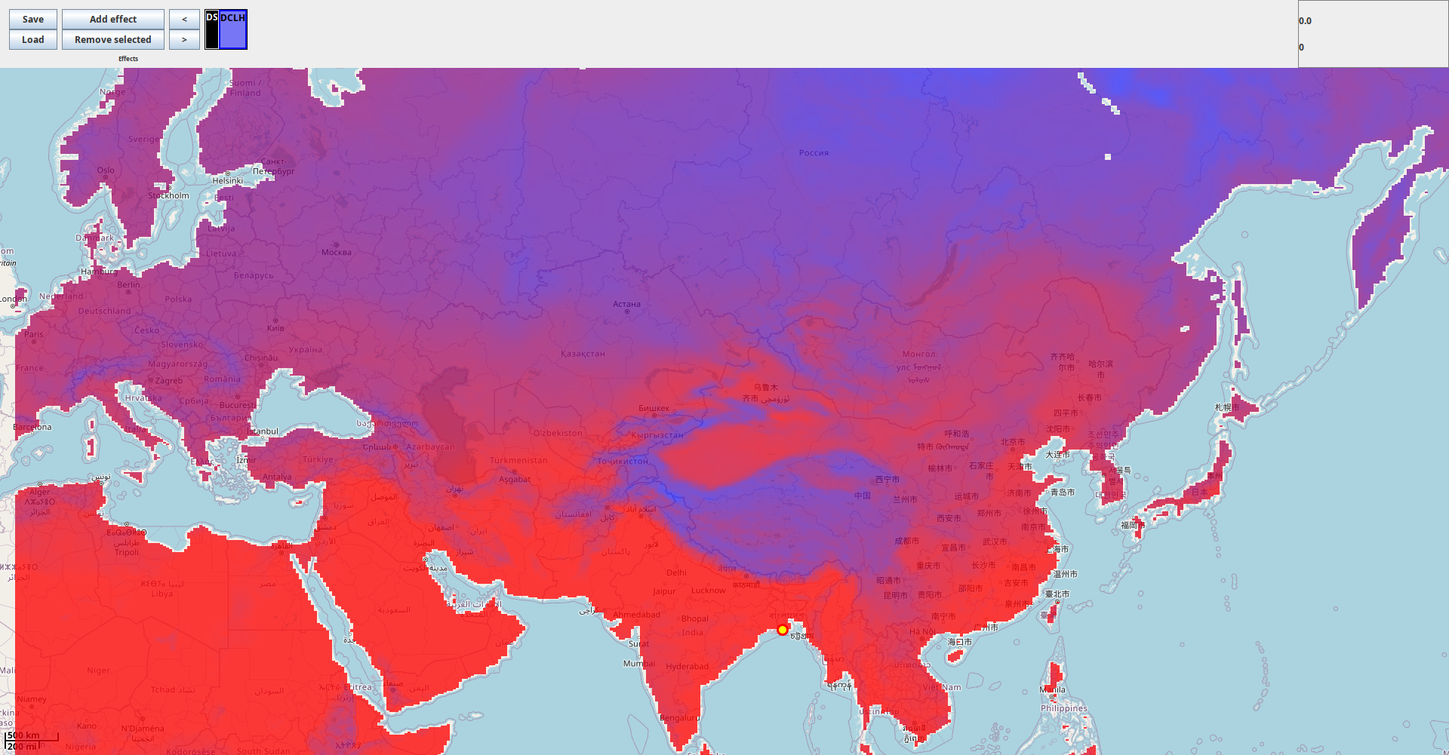
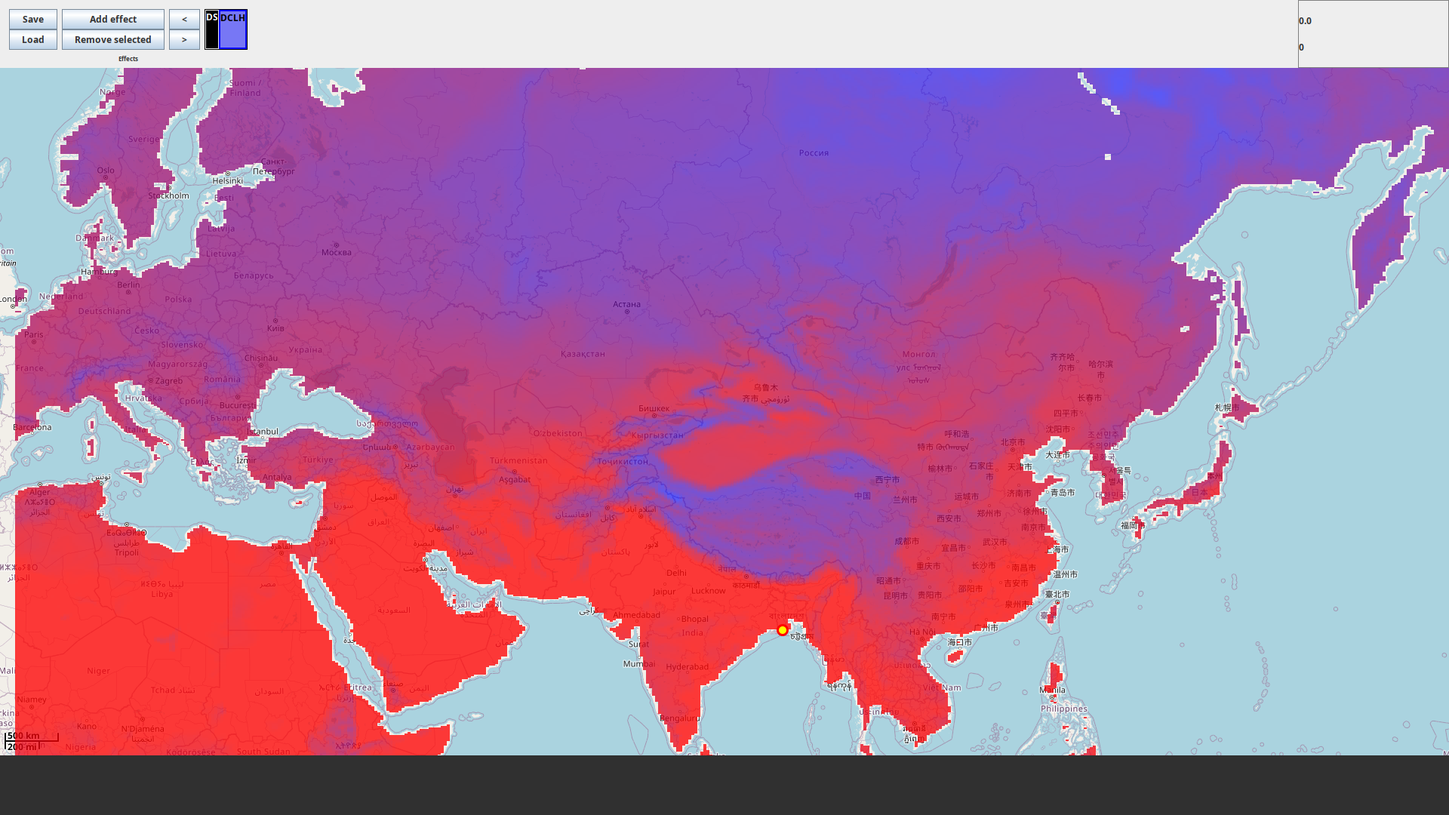
fix(screens): resize alchemist image to fit laptop frame

diff --git a/docs/_app/immutable/chunks/CDQ6sOsl.js b/docs/_app/immutable/chunks/CDQ6sOsl.js
@@ -1,0 +1,1 @@
+import{A as e,B as t,U as n,V as r,j as i,k as a,n as o,t as s}from"./1f2inXSM.js";var c=class{constructor(e,t){this.status=e,typeof t==`string`?this.body={message:t}:t?this.body=t:this.body={message:`Error: ${e}`}}toString(){return JSON.stringify(this.body)}},l=class{constructor(e,t){try{new Headers({location:t})}catch{throw Error(`Invalid redirect location ${JSON.stringify(t)}: this string contains characters that cannot be used in HTTP headers`)}this.status=e,this.location=t}},u=class extends Error{constructor(e,t,n){super(n),this.status=e,this.text=t}};new URL(`sveltekit-internal://`);function d(e,t){return e===`/`||t===`ignore`?e:t===`never`?e.endsWith(`/`)?e.slice(0,-1):e:t===`always`&&!e.endsWith(`/`)?e+`/`:e}function f(e){return e.split(`%25`).map(decodeURI).join(`%25`)}function p(e){for(let t in e)e[t]=decodeURIComponent(e[t]);return e}function m({href:e}){return e.split(`#`)[0]}function h(){}function g(...e){let t=5381;for(let n of e)if(typeof n==`string`){let e=n.length;for(;e;)t=t*33^n.charCodeAt(--e)}else if(ArrayBuffer.isView(n)){let e=new Uint8Array(n.buffer,n.byteOffset,n.byteLength),r=e.length;for(;r;)t=t*33^e[--r]}else throw TypeError(`value must be a string or TypedArray`);return(t>>>0).toString(36)}new TextEncoder;function _(e){let t=atob(e),n=new Uint8Array(t.length);for(let e=0;e<t.length;e++)n[e]=t.charCodeAt(e);return n}var v=window.fetch;window.fetch=(e,t)=>((e instanceof Request?e.method:t?.method||`GET`)!==`GET`&&y.delete(x(e)),v(e,t));var y=new Map;function ee(e,t){let n=x(e,t),r=document.querySelector(n);if(r?.textContent){r.remove();let{body:e,...t}=JSON.parse(r.textContent),i=r.getAttribute(`data-ttl`);return i&&y.set(n,{body:e,init:t,ttl:1e3*Number(i)}),r.getAttribute(`data-b64`)!==null&&(e=_(e)),Promise.resolve(new Response(e,t))}return window.fetch(e,t)}function b(e,t,n){if(y.size>0){let t=x(e,n),r=y.get(t);if(r){if(performance.now()<r.ttl&&[`default`,`force-cache`,`only-if-cached`,void 0].includes(n?.cache))return new Response(r.body,r.init);y.delete(t)}}return window.fetch(t,n)}function x(e,t){let n=`script[data-sveltekit-fetched][data-url=${JSON.stringify(e instanceof Request?e.url:e)}]`;if(t?.headers||t?.body){let e=[];t.headers&&e.push([...new Headers(t.headers)].join(`,`)),t.body&&(typeof t.body==`string`||ArrayBuffer.isView(t.body))&&e.push(t.body),n+=`[data-hash="${g(...e)}"]`}return n}var te=/^(\[)?(\.\.\.)?(\w+)(?:=(\w+))?(\])?$/,ne=/^\/\((?:[^)]+)\)$/;function re(e){let t=[];return{pattern:e===`/`||ne.test(e)?/^\/$/:RegExp(`^${ae(e).map(e=>{let n=/^\[\.\.\.(\w+)(?:=(\w+))?\]$/.exec(e);if(n)return t.push({name:n[1],matcher:n[2],optional:!1,rest:!0,chained:!0}),`(?:/([^]*))?`;let r=/^\[\[(\w+)(?:=(\w+))?\]\]$/.exec(e);if(r)return t.push({name:r[1],matcher:r[2],optional:!0,rest:!1,chained:!0}),`(?:/([^/]+))?`;if(!e)return;let i=e.split(/\[(.+?)\](?!\])/);return`/`+i.map((e,n)=>{if(n%2){if(e.startsWith(`x+`))return se(String.fromCharCode(parseInt(e.slice(2),16)));if(e.startsWith(`u+`))return se(String.fromCharCode(...e.slice(2).split(`-`).map(e=>parseInt(e,16))));let[,r,a,o,s]=te.exec(e);return t.push({name:o,matcher:s,optional:!!r,rest:!!a,chained:a?n===1&&i[0]===``:!1}),a?`([^]*?)`:r?`([^/]*)?`:`([^/]+?)`}return se(e)}).join(``)}).join(``)}/?$`),params:t}}function ie(e){return e!==``&&!/^\([^)]+\)$/.test(e)}function ae(e){return e.slice(1).split(`/`).filter(ie)}function oe(e,t,n){let r={},i=e.slice(1),a=i.filter(e=>e!==void 0),o=0;for(let e=0;e<t.length;e+=1){let s=t[e],c=i[e-o];if(s.chained&&s.rest&&o&&(c=i.slice(e-o,e+1).filter(e=>e).join(`/`),o=0),c===void 0)if(s.rest)c=``;else continue;if(!s.matcher||n[s.matcher](c)){r[s.name]=c;let n=t[e+1],l=i[e+1];n&&!n.rest&&n.optional&&l&&s.chained&&(o=0),!n&&!l&&Object.keys(r).length===a.length&&(o=0);continue}if(s.optional&&s.chained){o++;continue}return}if(!o)return r}function se(e){return e.normalize().replace(/[[\]]/g,`\\$&`).replace(/%/g,`%25`).replace(/\//g,`%2[Ff]`).replace(/\?/g,`%3[Ff]`).replace(/#/g,`%23`).replace(/[.*+?^${}()|\\]/g,`\\$&`)}function ce({nodes:e,server_loads:t,dictionary:n,matchers:r}){let i=new Set(t);return Object.entries(n).map(([t,[n,i,s]])=>{let{pattern:c,params:l}=re(t),u={id:t,exec:e=>{let t=c.exec(e);if(t)return oe(t,l,r)},errors:[1,...s||[]].map(t=>e[t]),layouts:[0,...i||[]].map(o),leaf:a(n)};return u.errors.length=u.layouts.length=Math.max(u.errors.length,u.layouts.length),u});function a(t){let n=t<0;return n&&(t=~t),[n,e[t]]}function o(t){return t===void 0?t:[i.has(t),e[t]]}}function le(e,t=JSON.parse){try{return t(sessionStorage[e])}catch{}}function ue(e,t,n=JSON.stringify){let r=n(t);try{sessionStorage[e]=r}catch{}}var S=globalThis.__sveltekit_xtnn6m?.base??``,de=globalThis.__sveltekit_xtnn6m?.assets??S??``,fe=`1788131558530`,pe=`sveltekit:snapshot`,me=`sveltekit:scroll`,he=`sveltekit:states`,C=`sveltekit:history`,w=`sveltekit:navigation`,T={tap:1,hover:2,viewport:3,eager:4,off:-1,false:-1},ge=location.origin;function _e(e){if(e instanceof URL)return e;let t=document.baseURI;if(!t){let e=document.getElementsByTagName(`base`);t=e.length?e[0].href:document.URL}return new URL(e,t)}function E(){return{x:pageXOffset,y:pageYOffset}}function D(e,t){return e.getAttribute(`data-sveltekit-${t}`)}var ve={...T,"":T.hover};function ye(e){let t=e.assignedSlot??e.parentNode;return t?.nodeType===11&&(t=t.host),t}function be(e,t){for(;e&&e!==t;){if(e.nodeName.toUpperCase()===`A`&&e.hasAttribute(`href`))return e;e=ye(e)}}function xe(e,t,n){let r;try{if(r=new URL(e instanceof SVGAElement?e.href.baseVal:e.href,document.baseURI),n&&r.hash.match(/^#[^/]/)){let e=location.hash.split(`#`)[1]||`/`;r.hash=`#${e}${r.hash}`}}catch{}let i=e instanceof SVGAElement?e.target.baseVal:e.target,a=!r||!!i||k(r,t,n)||(e.getAttribute(`rel`)||``).split(/\s+/).includes(`external`),o=r?.origin===ge&&e.hasAttribute(`download`);return{url:r,external:a,target:i,download:o}}function O(e){let t=null,n=null,r=null,i=null,a=null,o=null,s=e;for(;s&&s!==document.documentElement;)r===null&&(r=D(s,`preload-code`)),i===null&&(i=D(s,`preload-data`)),t===null&&(t=D(s,`keepfocus`)),n===null&&(n=D(s,`noscroll`)),a===null&&(a=D(s,`reload`)),o===null&&(o=D(s,`replacestate`)),s=ye(s);function c(e){switch(e){case``:case`true`:return!0;case`off`:case`false`:return!1;default:return}}return{preload_code:ve[r??`off`],preload_data:ve[i??`off`],keepfocus:c(t),noscroll:c(n),reload:c(a),replace_state:c(o)}}function Se(e){let t=n(e),r=!0;function i(){r=!0,t.update(e=>e)}function a(e){r=!1,t.set(e)}function o(e){let n;return t.subscribe(t=>{(n===void 0||r&&t!==n)&&e(n=t)})}return{notify:i,set:a,subscribe:o}}var Ce={v:h};function we(){let{set:e,subscribe:t}=n(!1);async function r(){clearTimeout(void 0);try{let t=await fetch(`${de}/_app/version.json`,{headers:{pragma:`no-cache`,"cache-control":`no-cache`}});if(!t.ok)return!1;let n=(await t.json()).version!==fe;return n&&(e(!0),Ce.v(),clearTimeout(void 0)),n}catch{return!1}}return{subscribe:t,check:r}}function k(e,t,n){return e.origin!==ge||!e.pathname.startsWith(t)?!0:n?e.pathname!==location.pathname:!1}function Te(e){}var Ee=new Set([`load`,`prerender`,`csr`,`ssr`,`trailingSlash`,`config`]);new Set([...Ee,`entries`]);var De=new Set([...Ee]);new Set([...De,`actions`,`entries`]),new Set([`GET`,`POST`,`PATCH`,`PUT`,`DELETE`,`OPTIONS`,`HEAD`,`fallback`,`prerender`,`trailingSlash`,`config`,`entries`]);function Oe(e){return e.filter(e=>e!=null)}function A(e,t){return e+`/`+t}function ke(e){return e instanceof c||e instanceof u?e.status:500}function Ae(e){return e instanceof u?e.text:`Internal Error`}var j,M,N,je=o.toString().includes(`$$`)||/function \w+\(\) \{\}/.test(o.toString()),Me=`a:`;je?(j={data:{},form:null,error:null,params:{},route:{id:null},state:{},status:-1,url:new URL(Me)},M={current:null},N={current:!1}):(j=new class{#e=r({});get data(){return a(this.#e)}set data(e){t(this.#e,e)}#t=r(null);get form(){return a(this.#t)}set form(e){t(this.#t,e)}#n=r(null);get error(){return a(this.#n)}set error(e){t(this.#n,e)}#r=r({});get params(){return a(this.#r)}set params(e){t(this.#r,e)}#i=r({id:null});get route(){return a(this.#i)}set route(e){t(this.#i,e)}#a=r({});get state(){return a(this.#a)}set state(e){t(this.#a,e)}#o=r(-1);get status(){return a(this.#o)}set status(e){t(this.#o,e)}#s=r(new URL(Me));get url(){return a(this.#s)}set url(e){t(this.#s,e)}},M=new class{#e=r(null);get current(){return a(this.#e)}set current(e){t(this.#e,e)}},N=new class{#e=r(!1);get current(){return a(this.#e)}set current(e){t(this.#e,e)}},Ce.v=()=>N.current=!0);function Ne(e){Object.assign(j,e)}var{onMount:Pe,tick:Fe}=s,Ie=new Set([`icon`,`shortcut icon`,`apple-touch-icon`]),P=null,F=le(`sveltekit:scroll`)??{},I=le(`sveltekit:snapshot`)??{},L={url:Se({}),page:Se({}),navigating:n(null),updated:we()};function Le(e){F[e]=E()}function Re(e,t){let n=e+1;for(;F[n];)delete F[n],n+=1;for(n=t+1;I[n];)delete I[n],n+=1}function R(e,t=!1){return t?location.replace(e.href):location.href=e.href,new Promise(h)}async function ze(){if(`serviceWorker`in navigator){let e=await navigator.serviceWorker.getRegistration(S||`/`);e&&await e.update()}}var Be,Ve,z,B,He,V,H=[],U=[],W=null;function Ue(){W?.fork?.then(e=>e?.discard()),W=null}var We=new Map,Ge=new Set,Ke=new Set,G=new Set,K={branch:[],error:null,url:null,nav:null},qe=!1,Je=!1,Ye=!0,q=!1,J=!1,Xe=!1,Ze=!1,Qe,Y,X,Z,$e=new Set,et=new Map,tt=new Map;async function nt(e,t,n){globalThis.__sveltekit_xtnn6m&&(globalThis.__sveltekit_xtnn6m.query,globalThis.__sveltekit_xtnn6m.prerender),document.URL!==location.href&&(location.href=location.href),V=e,await e.hooks.init?.(),Be=ce(e),B=document.documentElement,He=t,Ve=e.nodes[0],z=e.nodes[1],Ve(),z(),Y=history.state?.[C],X=history.state?.[w],Y||(Y=X=Date.now(),history.replaceState({...history.state,[C]:Y,[w]:X},``));let r=F[Y];function i(){r&&(history.scrollRestoration=`manual`,scrollTo(r.x,r.y))}n?(i(),await At(He,n)):(await Q({type:`enter`,url:_e(V.hash?It(new URL(location.href)):location.href),replace_state:!0}),i()),kt()}function rt(){H.length=0,Ze=!1}function it(e){U.some(e=>e?.snapshot)&&(I[e]=U.map(e=>e?.snapshot?.capture()))}function at(e){I[e]?.forEach((e,t)=>{U[t]?.snapshot?.restore(e)})}function ot(){Le(Y),ue(me,F),it(X),ue(pe,I)}async function st(e,t,n,r){let a,o;t.invalidateAll&&Ue(),await Q({type:`goto`,url:_e(e),keepfocus:t.keepFocus,noscroll:t.noScroll,replace_state:t.replaceState,state:t.state,redirect_count:n,nav_token:r,accept:()=>{if(t.invalidateAll){Ze=!0,a=new Set;for(let[e,t]of et)for(let n of t.keys())a.add(A(e,n));o=new Set;for(let[e,t]of tt)for(let n of t.keys())o.add(A(e,n))}t.invalidate&&t.invalidate.forEach(Ot)}}),t.invalidateAll&&i().then(i).then(()=>{for(let[e,t]of et)for(let[n,{resource:r}]of t)a?.has(A(e,n))&&r.refresh();for(let[e,t]of tt)for(let[n,{resource:r}]of t)o?.has(A(e,n))&&r.reconnect()})}async function ct(e){if(e.id!==W?.id){Ue();let t={};$e.add(t),W={id:e.id,token:t,promise:vt({...e,preload:t}).then(e=>($e.delete(t),e.type===`loaded`&&e.state.error&&Ue(),e)),fork:null}}return W.promise}async function lt(e){let t=(await St(e,!1))?.route;t&&await Promise.all([...t.layouts,t.leaf].filter(Boolean).map(e=>e[1]()))}async function ut(e,t,n){let r={params:K.params,route:{id:K.route?.id??null},url:new URL(location.href)};if(K={...e.state,nav:r},Ne(e.props.page),Qe=new V.root({target:t,props:{...e.props,stores:L,components:U},hydrate:n,sync:!1,transformError:void 0}),await Promise.resolve(),at(X),n){let e={from:null,to:{...r,scroll:F[Y]??E()},willUnload:!1,type:`enter`,complete:Promise.resolve()};G.forEach(t=>t(e))}Je=!0}async function dt({url:e,params:t,branch:n,errors:r,status:i,error:a,route:o,form:s}){let c=`never`;if(S&&(e.pathname===S||e.pathname===S+`/`))c=`always`;else for(let e of n)e?.slash!==void 0&&(c=e.slash);e.pathname=d(e.pathname,c),e.search=e.search;let l={type:`loaded`,state:{url:e,params:t,branch:n,error:a,route:o},props:{constructors:Oe(n).map(e=>e.node.component),page:Ft(j)}};s!==void 0&&(l.props.form=s);let u={},f=!j,p=0;for(let e=0;e<Math.max(n.length,K.branch.length);e+=1){let t=n[e],r=K.branch[e];t?.data!==r?.data&&(f=!0),t&&(u={...u,...t.data},f&&(l.props[`data_${p}`]=u),p+=1)}return(!K.url||e.href!==K.url.href||K.error!==a||s!==void 0&&s!==j.form||f)&&(l.props.page={error:a,params:t,route:{id:o?.id??null},state:{},status:i,url:new URL(e),form:s??null,data:f?u:j.data}),l}async function ft({loader:e,parent:t,url:n,params:r,route:i,server_data_node:a}){let o={dependencies:new Set,params:new Set,parent:!1,route:!1,url:!1,search_params:new Set},s=await e();return{node:s,loader:e,server:a,universal:s.universal?.load?{type:`data`,data:null,uses:o}:null,data:a?.data??null,slash:s.universal?.trailingSlash??a?.slash}}function pt(e,t,n){let r=e instanceof Request?e.url:e,i=new URL(r,n);return i.origin===n.origin&&(r=i.href.slice(n.origin.length)),{resolved:i,promise:Je?b(r,i.href,t):ee(r,t)}}function mt(e,t,n,r,i,a){if(Ze)return!0;if(!i)return!1;if(i.parent&&e||i.route&&t||i.url&&n)return!0;for(let e of i.search_params)if(r.has(e))return!0;for(let e of i.params)if(a[e]!==K.params[e])return!0;for(let e of i.dependencies)if(H.some(t=>t(new URL(e))))return!0;return!1}function ht(e,t){return e?.type===`data`?e:e?.type===`skip`?t??null:null}function gt(e,t){if(!e)return new Set(t.searchParams.keys());let n=new Set([...e.searchParams.keys(),...t.searchParams.keys()]);for(let r of n){let i=e.searchParams.getAll(r),a=t.searchParams.getAll(r);i.every(e=>a.includes(e))&&a.every(e=>i.includes(e))&&n.delete(r)}return n}function _t({error:e,url:t,route:n,params:r}){return{type:`loaded`,state:{error:e,url:t,route:n,params:r,branch:[]},props:{page:Ft(j),constructors:[]}}}async function vt({id:e,invalidating:t,url:n,params:r,route:i,preload:a}){if(W?.id===e)return $e.delete(W.token),W.promise;let{errors:o,layouts:s,leaf:u}=i,d=[...s,u];o.forEach(e=>e?.().catch(h)),d.forEach(e=>e?.[1]().catch(h));let f=K.url?e!==wt(K.url):!1,p=K.route?i.id!==K.route.id:!1,m=gt(K.url,n),g=!1,_=d.map(async(e,t)=>{if(!e)return;let a=K.branch[t];return e[1]===a?.loader&&!mt(g,p,f,m,a.universal?.uses,r)?a:(g=!0,ft({loader:e[1],url:n,params:r,route:i,parent:async()=>{let e={};for(let n=0;n<t;n+=1)Object.assign(e,(await _[n])?.data);return e},server_data_node:ht(e[0]?{type:`skip`}:null,e[0]?a?.server:void 0)}))});for(let e of _)e.catch(h);let v=[];for(let e=0;e<d.length;e+=1)if(d[e])try{v.push(await _[e])}catch(t){if(t instanceof l)return{type:`redirect`,location:t.location};if($e.has(a))return _t({error:await $(t,{params:r,url:n,route:{id:i.id}}),url:n,params:r,route:i});let s=ke(t),u;if(t instanceof c)u=t.body;else{if(await L.updated.check())return await ze(),await R(n);u=await $(t,{params:r,url:n,route:{id:i.id}})}let d=await yt(e,v,o);return d?dt({url:n,params:r,branch:v.slice(0,d.idx).concat(d.node),errors:o,status:s,error:u,route:i}):await Et(n,{id:i.id},u,s)}else v.push(void 0);return dt({url:n,params:r,branch:v,errors:o,status:200,error:null,route:i,form:t?void 0:null})}async function yt(e,t,n){for(;e--;)if(n[e]){let r=e;for(;!t[r];)--r;try{return{idx:r+1,node:{node:await n[e](),loader:n[e],data:{},server:null,universal:null}}}catch{continue}}}async function bt({status:e,error:t,url:n,route:r}){let i={};try{return dt({url:n,params:i,branch:[await ft({loader:Ve,url:n,params:i,route:r,parent:()=>Promise.resolve({}),server_data_node:ht(null)}),{node:await z(),loader:z,universal:null,server:null,data:null}],status:e,error:t,errors:[],route:null})}catch(e){if(e instanceof l)return st(new URL(e.location,location.href),{},0);throw e}}async function xt(e){let t=e.href;if(We.has(t))return We.get(t);let n;try{let r=(async()=>{let t=await V.hooks.reroute({url:new URL(e),fetch:async(t,n)=>pt(t,n,e).promise})??e;if(typeof t==`string`){let n=new URL(e);V.hash?n.hash=t:n.pathname=t,t=n}return t})();We.set(t,r),n=await r}catch{We.delete(t);return}return n}async function St(e,t){if(e&&!k(e,S,V.hash)){let n=await xt(e);if(!n)return;let r=Ct(n);for(let n of Be){let i=n.exec(r);if(i)return{id:wt(e),invalidating:t,route:n,params:p(i),url:e}}}}function Ct(e){return f(V.hash?e.hash.replace(/^#/,``).replace(/[?#].+/,``):e.pathname.slice(S.length))||`/`}function wt(e){return(V.hash?e.hash.replace(/^#/,``):e.pathname)+e.search}function Tt({url:e,type:t,intent:n,delta:r,event:i,scroll:a}){let o=!1,s=Pt(K,n,e,t,a??null);r!==void 0&&(s.navigation.delta=r),i!==void 0&&(s.navigation.event=i);let c={...s.navigation,cancel:()=>{o=!0,s.reject(Error(`navigation cancelled`))}};return q||Ge.forEach(e=>e(c)),o?null:s}async function Q({type:t,url:n,popped:r,keepfocus:a,noscroll:o,replace_state:s,state:c={},redirect_count:l=0,nav_token:d={},accept:f=h,block:p=h,event:m}){let g=Z;Z=d;let _=await St(n,!1),v=t===`enter`?Pt(K,_,n,t):Tt({url:n,type:t,delta:r?.delta,intent:_,scroll:r?.scroll,event:m});if(!v){p(),Z===d&&(Z=g);return}let y=Y,ee=X;f(),q=!0,Je&&v.navigation.type!==`enter`&&L.navigating.set(M.current=v.navigation);let b=_&&await vt(_);if(!b){if(k(n,S,V.hash))return await R(n,s);b=await Et(n,{id:null},await $(new u(404,`Not Found`,`Not found: ${n.pathname}`),{url:n,params:{},route:{id:null}}),404,s)}if(n=_?.url||n,Z!==d)return v.reject(Error(`navigation aborted`)),!1;if(b.type===`redirect`){if(l<20){await Q({type:t,url:new URL(b.location,n),popped:r,keepfocus:a,noscroll:o,replace_state:s,state:c,redirect_count:l+1,nav_token:d}),v.fulfil(void 0);return}b=await bt({status:500,error:await $(Error(`Redirect loop`),{url:n,params:{},route:{id:null}}),url:n,route:{id:null}})}else b.props.page.status>=400&&await L.updated.check()&&(await ze(),await R(n,s));if(rt(),Le(y),it(ee),b.props.page.url.pathname!==n.pathname&&(n.pathname=b.props.page.url.pathname),c=r?r.state:c,!r){let e=+!s,t={[C]:Y+=e,[w]:X+=e,[he]:c};(s?history.replaceState:history.pushState).call(history,t,``,n),s||Re(Y,X)}let x=_&&W?.id===_.id?W.fork:null;W?.fork&&!x&&Ue(),W=null,b.props.page.state=c;let te;if(Je){let t=(await Promise.all(Array.from(Ke,e=>e(v.navigation)))).filter(e=>typeof e==`function`);if(t.length>0){function e(){t.forEach(e=>{G.delete(e)})}t.push(e),t.forEach(e=>{G.add(e)})}let r=v.navigation.to;K={...b.state,nav:{params:r.params,route:r.route,url:r.url}},b.props.page&&(b.props.page.url=n);let i=x&&await x;i?te=i.commit():(P=null,Qe.$set(b.props),P&&Object.assign(b.props.page,P),Ne(b.props.page),te=e?.()),Xe=!0}else await ut(b,He,!1);let{activeElement:ne}=document;if(await te,await i(),await i(),Z!==d)return v.reject(Error(`navigation aborted`)),!1;b.props.page&&P&&Object.assign(b.props.page,P);let re=null;if(Ye){let e=r?r.scroll:o?E():null;e?scrollTo(e.x,e.y):(re=n.hash&&document.getElementById(Lt(n)))?re.scrollIntoView():scrollTo(0,0)}let ie=document.activeElement!==ne&&document.activeElement!==document.body;!a&&!ie&&Nt(n,!re),Ye=!0,q=!1,t===`popstate`&&at(X),v.fulfil(void 0),v.navigation.to&&(v.navigation.to.scroll=E()),G.forEach(e=>e(v.navigation)),L.navigating.set(M.current=null)}async function Et(e,t,n,r,i){return e.origin===ge&&e.pathname===location.pathname&&!qe?await bt({status:r,error:n,url:e,route:t}):await R(e,i)}function Dt(){let e,t={element:void 0,href:void 0},n;B.addEventListener(`mousemove`,t=>{let n=t.target;clearTimeout(e),e=setTimeout(()=>{a(n,T.hover)},20)});function r(e){e.defaultPrevented||a(e.composedPath()[0],T.tap)}B.addEventListener(`mousedown`,r),B.addEventListener(`touchstart`,r,{passive:!0});let i=new IntersectionObserver(e=>{for(let t of e)t.isIntersecting&&(lt(new URL(t.target.href)),i.unobserve(t.target))},{threshold:0});async function a(e,r){let i=be(e,B),a=i===t.element&&i?.href===t.href&&r>=n;if(!i||a)return;let{url:o,external:s,download:c}=xe(i,S,V.hash);if(s||c)return;let l=O(i),u=o&&wt(K.url)===wt(o);if(!(l.reload||u))if(r<=l.preload_data){t={element:i,href:i.href},n=T.tap;let e=await St(o,!1);if(!e)return;ct(e)}else r<=l.preload_code&&(t={element:i,href:i.href},n=r,lt(o))}function o(){i.disconnect();for(let e of B.querySelectorAll(`a`)){let{url:t,external:n,download:r}=xe(e,S,V.hash);if(n||r)continue;let a=O(e);a.reload||(a.preload_code===T.viewport&&i.observe(e),a.preload_code===T.eager&&lt(t))}}G.add(o),o()}function $(e,t){if(e instanceof c)return e.body;let n=ke(e),r=Ae(e);return V.hooks.handleError({error:e,event:t,status:n,message:r})??{message:r}}function Ot(e){if(typeof e==`function`)H.push(e);else{let{href:t}=new URL(e,location.href);H.push(e=>e.href===t)}}function kt(){history.scrollRestoration=`manual`,addEventListener(`beforeunload`,e=>{let t=!1;if(ot(),!q){let e=Pt(K,void 0,null,`leave`),n={...e.navigation,cancel:()=>{t=!0,e.reject(Error(`navigation cancelled`))}};Ge.forEach(e=>e(n))}t?(e.preventDefault(),e.returnValue=``):history.scrollRestoration=`auto`}),addEventListener(`visibilitychange`,()=>{document.visibilityState===`hidden`&&ot()}),!navigator.connection?.saveData&&!/2g/.test(navigator.connection?.effectiveType)&&Dt(),B.addEventListener(`click`,async t=>{if(t.button||t.which!==1||t.metaKey||t.ctrlKey||t.shiftKey||t.altKey||t.defaultPrevented)return;let n=be(t.composedPath()[0],B);if(!n)return;let{url:r,external:i,target:a,download:o}=xe(n,S,V.hash);if(!r)return;if(a===`_parent`||a===`_top`){if(window.parent!==window)return}else if(a&&a!==`_self`)return;let s=O(n);if(!(n instanceof SVGAElement)&&r.protocol!==location.protocol&&!(r.protocol===`https:`||r.protocol===`http:`)||o)return;let[c,l]=(V.hash?r.hash.replace(/^#/,``):r.href).split(`#`),u=c===m(location);if(i||s.reload&&(!u||!l)){Tt({url:r,type:`link`,event:t})?q=!0:t.preventDefault();return}if(l!==void 0&&u){let[,i]=K.url.href.split(`#`);if(i===l){if(t.preventDefault(),l===``||l===`top`&&n.ownerDocument.getElementById(`top`)===null)scrollTo({top:0});else{let e=n.ownerDocument.getElementById(decodeURIComponent(l));e&&(e.scrollIntoView(),e.focus())}return}if(J=!0,Le(Y),e(r),!s.replace_state)return;J=!1}t.preventDefault(),await new Promise(e=>{requestAnimationFrame(()=>{setTimeout(e,0)}),setTimeout(e,100)}),await Q({type:`link`,url:r,keepfocus:s.keepfocus,noscroll:s.noscroll,replace_state:s.replace_state??r.href===location.href,event:t})}),B.addEventListener(`submit`,e=>{if(e.defaultPrevented)return;let t=HTMLFormElement.prototype.cloneNode.call(e.target),n=e.submitter;if((n?.formTarget||t.target)===`_blank`||(n?.formMethod||t.method)!==`get`)return;let r=new URL(n?.hasAttribute(`formaction`)&&n?.formAction||t.action);if(k(r,S,!1))return;let i=e.target,a=O(i);if(a.reload)return;e.preventDefault(),e.stopPropagation();let o=new FormData(i,n);r.search=new URLSearchParams(o).toString(),Q({type:`form`,url:r,keepfocus:a.keepfocus,noscroll:a.noscroll,replace_state:a.replace_state??r.href===location.href,event:e})}),addEventListener(`popstate`,async t=>{if(!Mt)if(t.state?.[`sveltekit:history`]){let n=t.state[C];if(Z={},n===Y)return;let r=F[n],i=t.state[`sveltekit:states`]??{},a=new URL(t.state[`sveltekit:pageurl`]??location.href),o=t.state[w],s=K.url?m(location)===m(K.url):!1;if(o===X&&(Xe||s)){i!==j.state&&(j.state=i),e(a),F[Y]=E(),r&&scrollTo(r.x,r.y),Y=n;return}let c=n-Y;await Q({type:`popstate`,url:a,popped:{state:i,scroll:r,delta:c},accept:()=>{Y=n,X=o},block:()=>{history.go(-c)},nav_token:Z,event:t})}else J||(e(new URL(location.href)),V.hash&&location.reload())}),addEventListener(`hashchange`,()=>{J&&(J=!1,history.replaceState({...history.state,[C]:++Y,[w]:X},``,location.href))});for(let e of document.querySelectorAll(`link`))Ie.has(e.rel)&&(e.href=e.href);addEventListener(`pageshow`,e=>{e.persisted&&L.navigating.set(M.current=null)});function e(e){K.url=j.url=e,L.page.set(Ft(j)),L.page.notify()}}async function At(e,{status:t=200,error:n,node_ids:r,params:i,route:a,server_route:o,data:s,form:c}){qe=!0;let u=new URL(location.href),d;({params:i={},route:a={id:null}}=await St(u,!1)||{}),d=Be.find(({id:e})=>e===a.id);let f,p=!0;try{let e=r.map(async(t,n)=>{let r=s[n];return r?.uses&&(r.uses=jt(r.uses)),ft({loader:V.nodes[t],url:u,params:i,route:a,parent:async()=>{let t={};for(let r=0;r<n;r+=1)Object.assign(t,(await e[r]).data);return t},server_data_node:ht(r)})}),o=await Promise.all(e);if(d){let e=d.layouts;for(let t=0;t<e.length;t++)e[t]||o.splice(t,0,void 0)}f=await dt({url:u,params:i,branch:o,status:t,error:n,errors:d?.errors,form:c,route:d??null})}catch(t){if(t instanceof l){await R(new URL(t.location,location.href));return}f=await bt({status:ke(t),error:await $(t,{url:u,params:i,route:a}),url:u,route:a}),e.textContent=``,p=!1}f.props.page&&(f.props.page.state={}),await ut(f,e,p)}function jt(e){return{dependencies:new Set(e?.dependencies??[]),params:new Set(e?.params??[]),parent:!!e?.parent,route:!!e?.route,url:!!e?.url,search_params:new Set(e?.search_params??[])}}var Mt=!1;function Nt(e,t=!0){let n=document.querySelector(`[autofocus]`);if(n)n.focus();else{let n=Lt(e);if(n&&document.getElementById(n)){let{x:r,y:i}=E();setTimeout(()=>{let a=history.state;Mt=!0,location.replace(new URL(`#${n}`,location.href)),history.replaceState(a,``,e),t&&scrollTo(r,i),Mt=!1})}else{let e=document.body,t=e.getAttribute(`tabindex`);e.tabIndex=-1,e.focus({preventScroll:!0,focusVisible:!1}),t===null?e.removeAttribute(`tabindex`):e.setAttribute(`tabindex`,t)}let r=getSelection();if(r&&r.type!==`None`){let e=[];for(let t=0;t<r.rangeCount;t+=1)e.push(r.getRangeAt(t));setTimeout(()=>{if(r.rangeCount===e.length){for(let t=0;t<r.rangeCount;t+=1){let n=e[t],i=r.getRangeAt(t);if(n.commonAncestorContainer!==i.commonAncestorContainer||n.startContainer!==i.startContainer||n.endContainer!==i.endContainer||n.startOffset!==i.startOffset||n.endOffset!==i.endOffset)return}r.removeAllRanges()}})}}}function Pt(e,t,n,r,i=null){let a,o,s=new Promise((e,t)=>{a=e,o=t});return s.catch(h),{navigation:{from:{params:e.params,route:{id:e.route?.id??null},url:e.url,scroll:E()},to:n&&{params:t?.params??null,route:{id:t?.route?.id??null},url:n,scroll:i},willUnload:!t,type:r,complete:s},fulfil:a,reject:o}}function Ft(e){return{data:e.data,error:e.error,form:e.form,params:e.params,route:e.route,state:e.state,status:e.status,url:e.url}}function It(e){let t=new URL(e);return t.hash=decodeURIComponent(e.hash),t}function Lt(e){let t;if(V.hash){let[,,n]=e.hash.split(`#`,3);t=n??``}else t=e.hash.slice(1);return decodeURIComponent(t)}export{N as a,j as i,L as n,Te as o,M as r,nt as t};

diff --git a/docs/_app/immutable/entry/app.m59vowtm.js b/docs/_app/immutable/entry/app.m59vowtm.js
@@ -1,0 +1,2 @@
+const __vite__mapDeps=(i,m=__vite__mapDeps,d=(m.f||(m.f=["../nodes/0.CBd2TIHb.js","../chunks/1f2inXSM.js","../chunks/D0lA1EZ8.js","../chunks/xihTtKlq.js","../assets/0.Bd5z0M1S.css","../nodes/1.BZ76H-yC.js","../chunks/CDQ6sOsl.js","../nodes/2.B2v9cDha.js","../assets/2.ChW0XEnL.css"])))=>i.map(i=>d[i]);
+import{B as e,C as t,F as n,G as r,H as i,I as a,K as o,L as s,N as c,P as l,R as u,S as d,T as f,V as p,Y as m,a as h,b as g,h as _,i as v,j as y,k as b,n as x,r as S,w as C,x as w}from"../chunks/1f2inXSM.js";import{t as T}from"../chunks/kNaey6uv.js";import"../chunks/xihTtKlq.js";var E={},D=C(`<div id="svelte-announcer" aria-live="assertive" aria-atomic="true" style="position: absolute; left: 0; top: 0; clip: rect(0 0 0 0); clip-path: inset(50%); overflow: hidden; white-space: nowrap; width: 1px; height: 1px"><!></div>`),O=C(`<!> <!>`,1);function k(S,C){o(C,!0);let T=v(C,`components`,23,()=>[]),E=v(C,`data_0`,3,null),k=v(C,`data_1`,3,null);n(()=>C.stores.page.set(C.page)),l(()=>{C.stores,C.page,C.constructors,T(),C.form,E(),k(),C.stores.page.notify()});let A=p(!1),j=p(!1),M=p(null);x(()=>{let t=C.stores.page.subscribe(()=>{b(A)&&(e(j,!0),y().then(()=>{e(M,document.title||`untitled page`,!0)}))});return e(A,!0),t});let N=i(()=>C.constructors[1]);var P=O(),F=s(P),I=e=>{let n=i(()=>C.constructors[0]);var r=t();_(s(r),()=>b(n),(e,n)=>{h(n(e,{get data(){return E()},get form(){return C.form},get params(){return C.page.params},children:(e,n)=>{var r=t();_(s(r),()=>b(N),(e,t)=>{h(t(e,{get data(){return k()},get form(){return C.form},get params(){return C.page.params}}),e=>T()[1]=e,()=>T()?.[1])}),d(e,r)},$$slots:{default:!0}}),e=>T()[0]=e,()=>T()?.[0])}),d(e,r)},L=e=>{let n=i(()=>C.constructors[0]);var r=t();_(s(r),()=>b(n),(e,t)=>{h(t(e,{get data(){return E()},get form(){return C.form},get params(){return C.page.params}}),e=>T()[0]=e,()=>T()?.[0])}),d(e,r)};g(F,e=>{C.constructors[1]?e(I):e(L,-1)});var R=u(F,2),z=e=>{var t=D(),n=a(t),r=e=>{var t=f();c(()=>w(t,b(M))),d(e,t)};g(n,e=>{b(j)&&e(r)}),m(t),d(e,t)};g(R,e=>{b(A)&&e(z)}),d(S,P),r()}var A=S(k),j=[()=>T(()=>import(`../nodes/0.CBd2TIHb.js`),__vite__mapDeps([0,1,2,3,4]),import.meta.url),()=>T(()=>import(`../nodes/1.BZ76H-yC.js`),__vite__mapDeps([5,1,6,3]),import.meta.url),()=>T(()=>import(`../nodes/2.B2v9cDha.js`),__vite__mapDeps([7,1,2,3,8]),import.meta.url)],M=[],N={"/":[2]},P={handleError:(({error:e})=>{console.error(e)}),reroute:(()=>{}),transport:{}},F=Object.fromEntries(Object.entries(P.transport).map(([e,t])=>[e,t.decode])),I=Object.fromEntries(Object.entries(P.transport).map(([e,t])=>[e,t.encode])),L=!1,R=(e,t)=>F[e](t);export{R as decode,F as decoders,N as dictionary,I as encoders,L as hash,P as hooks,E as matchers,j as nodes,A as root,M as server_loads};

diff --git a/docs/index.html b/docs/index.html
@@ -6,10 +6,10 @@
 	<meta name="viewport" content="width=device-width, initial-scale=1" />
 	<meta name="text-scale" content="scale" />
 	<title>E.W.A. portfolio</title>
-	<link href="./_app/immutable/entry/start.DzSUxgg1.js" rel="modulepreload">
-		<link href="./_app/immutable/chunks/UOXeBixq.js" rel="modulepreload">
+	<link href="./_app/immutable/entry/start.xCY-BWtS.js" rel="modulepreload">
+		<link href="./_app/immutable/chunks/CDQ6sOsl.js" rel="modulepreload">
 		<link href="./_app/immutable/chunks/1f2inXSM.js" rel="modulepreload">
-		<link href="./_app/immutable/entry/app.CmjxXdFE.js" rel="modulepreload">
+		<link href="./_app/immutable/entry/app.m59vowtm.js" rel="modulepreload">
 		<link href="./_app/immutable/chunks/kNaey6uv.js" rel="modulepreload">
 		<link href="./_app/immutable/chunks/xihTtKlq.js" rel="modulepreload">
 		<link href="./_app/immutable/nodes/0.CBd2TIHb.js" rel="modulepreload">
@@ -37,15 +37,15 @@
 			
 			<script>
 				{
-					__sveltekit_17p45i1 = {
+					__sveltekit_xtnn6m = {
 						base: new URL(".", location).pathname.slice(0, -1)
 					};
 
 					const element = document.currentScript.parentElement;
 
 					Promise.all([
-						import("./_app/immutable/entry/start.DzSUxgg1.js"),
-						import("./_app/immutable/entry/app.CmjxXdFE.js")
+						import("./_app/immutable/entry/start.xCY-BWtS.js"),
+						import("./_app/immutable/entry/app.m59vowtm.js")
 					]).then(([kit, app]) => {
 						kit.start(app, element, {
 							node_ids: [0, 2],

diff --git a/docs/404.html b/docs/404.html
@@ -6,10 +6,10 @@
 	<meta name="viewport" content="width=device-width, initial-scale=1" />
 	<meta name="text-scale" content="scale" />
 	<title>E.W.A. portfolio</title>
-	<link href="/_app/immutable/entry/start.DzSUxgg1.js" rel="modulepreload">
-		<link href="/_app/immutable/chunks/UOXeBixq.js" rel="modulepreload">
+	<link href="/_app/immutable/entry/start.xCY-BWtS.js" rel="modulepreload">
+		<link href="/_app/immutable/chunks/CDQ6sOsl.js" rel="modulepreload">
 		<link href="/_app/immutable/chunks/1f2inXSM.js" rel="modulepreload">
-		<link href="/_app/immutable/entry/app.CmjxXdFE.js" rel="modulepreload">
+		<link href="/_app/immutable/entry/app.m59vowtm.js" rel="modulepreload">
 		<link href="/_app/immutable/chunks/kNaey6uv.js" rel="modulepreload">
 		<link href="/_app/immutable/chunks/xihTtKlq.js" rel="modulepreload">
 		<link href="/_app/immutable/nodes/0.CBd2TIHb.js" rel="modulepreload">
@@ -22,15 +22,15 @@
 	<div style="display: contents">
 			<script>
 				{
-					__sveltekit_17p45i1 = {
+					__sveltekit_xtnn6m = {
 						base: ""
 					};
 
 					const element = document.currentScript.parentElement;
 
 					Promise.all([
-						import("/_app/immutable/entry/start.DzSUxgg1.js"),
-						import("/_app/immutable/entry/app.CmjxXdFE.js")
+						import("/_app/immutable/entry/start.xCY-BWtS.js"),
+						import("/_app/immutable/entry/app.m59vowtm.js")
 					]).then(([kit, app]) => {
 						kit.start(app, element);
 					});

diff --git a/docs/_app/immutable/nodes/1.BZ76H-yC.js b/docs/_app/immutable/nodes/1.BZ76H-yC.js
@@ -1,0 +1,1 @@
+import{G as e,I as t,K as n,L as r,N as i,R as a,S as o,Y as s,w as c,x as l}from"../chunks/1f2inXSM.js";import{i as u,n as d,r as f}from"../chunks/CDQ6sOsl.js";import"../chunks/xihTtKlq.js";var p={get data(){return u.data},get error(){return u.error},get form(){return u.form},get params(){return u.params},get route(){return u.route},get state(){return u.state},get status(){return u.status},get url(){return u.url}};Object.defineProperty({get from(){return f.current?f.current.from:null},get to(){return f.current?f.current.to:null},get type(){return f.current?f.current.type:null},get willUnload(){return f.current?f.current.willUnload:null},get delta(){return f.current?f.current.delta:null},get complete(){return f.current?f.current.complete:null}},"current",{get(){throw Error(`Replace navigating.current.<prop> with navigating.<prop>`)}}),d.updated.check;var m=p,h=c(`<h1> </h1> <p> </p>`,1);function g(c,u){n(u,!0);var d=h(),f=r(d),p=t(f,!0);s(f);var g=a(f,2),_=t(g,!0);s(g),i(()=>{l(p,m.status),l(_,m.error?.message)}),o(c,d),e()}export{g as component};

diff --git a/docs/_app/immutable/entry/start.xCY-BWtS.js b/docs/_app/immutable/entry/start.xCY-BWtS.js
@@ -1,0 +1,1 @@
+import{o as e,t}from"../chunks/CDQ6sOsl.js";export{e as load_css,t as start};
